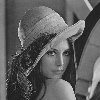
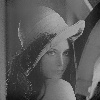
update results of r test

diff --git a/nlm_para_test.py b/nlm_para_test.py
@@ -24,41 +24,41 @@ noise = sigma_noise * np.random.randn(img.shape[0], img.shape[1])
 noise_img = img + noise
 
 # test for parameter h
-print("======h:======")
-hs=[5,10,15]
-nlhs=[]
-for h in hs:
-    img_t=nlm.nlm(noise_img,sigma_noise*h)
-    nlhs.append(img_t)
-    cv2.imwrite(f'results/h_{h//5-1}.jpg', np.uint8(img_t * 255))
-    print(np.sum(np.square(img-img_t)))
-
-pos=[x for x in range(131,131+len(hs))]
-plt.figure()
-for i in range(len(hs)):
-    plt.subplot(pos[i])
-    plt.imshow(nlhs[i], 'gray')
-    plt.axis('off')
-plt.show()
+# print("======h:======")
+# hs=[5,10,15]
+# nlhs=[]
+# for h in hs:
+#     img_t=nlm.nlm(noise_img,sigma_noise*h)
+#     nlhs.append(img_t)
+#     cv2.imwrite(f'results/h_{h//5-1}.jpg', np.uint8(img_t * 255))
+#     print(np.sum(np.square(img-img_t)))
+#
+# pos=[x for x in range(131,131+len(hs))]
+# plt.figure()
+# for i in range(len(hs)):
+#     plt.subplot(pos[i])
+#     plt.imshow(nlhs[i], 'gray')
+#     plt.axis('off')
+# plt.show()
 
 
 # test for parameter R, the radius of the search window
-print("======R:======")
-Rs=[1,5,10]
-nlRs=[]
-for R in Rs:
-    img_t=nlm.nlm(noise_img,sigma_noise*10,R)
-    nlRs.append(img_t)
-    print(np.sum(np.square(img-img_t)))
-    cv2.imwrite(f'results/R_{i}.jpg', np.uint8(img_t * 255))
-
-pos=[x for x in range(131,131+len(Rs))]
-plt.figure()
-for i in range(len(Rs)):
-    plt.subplot(pos[i])
-    plt.imshow(nlRs[i], 'gray')
-    plt.axis('off')
-plt.show()
+# print("======R:======")
+# Rs=[1,5,10]
+# nlRs=[]
+# for R in Rs:
+#     img_t=nlm.nlm(noise_img,sigma_noise*10,R)
+#     nlRs.append(img_t)
+#     print(np.sum(np.square(img-img_t)))
+#     cv2.imwrite(f'results/R_{i}.jpg', np.uint8(img_t * 255))
+#
+# pos=[x for x in range(131,131+len(Rs))]
+# plt.figure()
+# for i in range(len(Rs)):
+#     plt.subplot(pos[i])
+#     plt.imshow(nlRs[i], 'gray')
+#     plt.axis('off')
+# plt.show()
 
 # test for parameter r, the radius of the similarity window
 print("======r:======")
@@ -68,7 +68,7 @@ for r in rs:
     img_t=nlm.nlm(noise_img, sigma_noise * 10, 10, r)
     nlrs.append(img_t)
     print(np.sum(np.square(img - img_t)))
-    cv2.imwrite(f'results/r1_{i}.jpg', np.uint8(img * 255))
+    cv2.imwrite(f'results/r1_{r//3}.jpg', np.uint8(img_t * 255))
 
 pos = [x for x in range(131, 131 + len(rs))]
 plt.figure()
@@ -80,20 +80,20 @@ plt.show()
 
 # compare the results
 # whether add a Gaussian kernel to the Euclidean distance or not
-print("======G:======")
-nlgs = []
-nlgs.append(noise_img)
-nlgs.append(nlm.nlm(noise_img, sigma_noise * 10, 10, 3, False))
-nlgs.append(nlm.nlm(noise_img, sigma_noise * 10, 10, 3, True))
-
-for i in range(3):
-    print(np.sum(np.square(img-nlgs[i] )))
-    cv2.imwrite(f'results/g_{i}.jpg', np.uint8(nlgs[i] * 255))
-
-pos = [x for x in range(131, 131 + len(nlgs))]
-plt.figure()
-for i in range(len(nlgs)):
-    plt.subplot(pos[i])
-    plt.imshow(nlgs[i], 'gray')
-    plt.axis('off')
-plt.show()
+# print("======G:======")
+# nlgs = []
+# nlgs.append(noise_img)
+# nlgs.append(nlm.nlm(noise_img, sigma_noise * 10, 10, 3, False))
+# nlgs.append(nlm.nlm(noise_img, sigma_noise * 10, 10, 3, True))
+#
+# for i in range(3):
+#     print(np.sum(np.square(img-nlgs[i] )))
+#     cv2.imwrite(f'results/g_{i}.jpg', np.uint8(nlgs[i] * 255))
+#
+# pos = [x for x in range(131, 131 + len(nlgs))]
+# plt.figure()
+# for i in range(len(nlgs)):
+#     plt.subplot(pos[i])
+#     plt.imshow(nlgs[i], 'gray')
+#     plt.axis('off')
+# plt.show()
